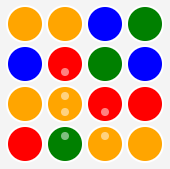
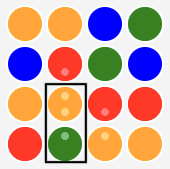
updates opdracht backtracking

diff --git a/content/opdrachten/_index.md b/content/opdrachten/_index.md
@@ -636,7 +636,7 @@ _Hints:_
 
 In de bijgeleverde tests worden de volgende drie spellen gebruikt:
 - Spel 1
-   <img src="/img/opdracht2/model1-1.png" width="100px"></img>
+   <img src="/img/opdracht2/model1.png" width="100px"></img>
    ```java
    CandyCrushGame model1 = Util.createBoardFromString("""
             @@o#
@@ -646,14 +646,15 @@ In de bijgeleverde tests worden de volgende drie spellen gebruikt:
    ```
    **Oplossing**: De maximumscore is **16** na **4 wissels**.
    {{% notice style=info title="Meer detail" expanded=false %}}
-   Er is slechts 1 sequentie van 4 wissels die tot een eindscore van 16 leidt.
-   1. (r2,c1) ⇄ (r3,c1)
-   2. (r2,c1) ⇄ (r3,c1)
-   3. (r2,c0) ⇄ (r2,c1)
-   4. (r2,c3) ⇄ (r3,c3)
+   Er zijn 3 sequenties van 4 wissels die tot een eindscore van 16 leiden, namelijk:
+
+   - (r2,c1) ⇄ (r3,c1), (r2,c1) ⇄ (r3,c1), (r2,c0) ⇄ (r2,c1), (r2,c3) ⇄ (r3,c3)
+   - (r2,c1) ⇄ (r3,c1), (r1,c0) ⇄ (r1,c1), (r2,c1) ⇄ (r3,c1), (r2,c3) ⇄ (r3,c3)
+   - (r2,c1) ⇄ (r3,c1), (r1,c0) ⇄ (r1,c1), (r1,c3) ⇄ (r2,c3), (r2,c1) ⇄ (r3,c1)
 
    _(rA,cB) ⇄ (rC,cD) betekent een wissel van het snoepje op rij A, kolom B met dat op rij C, kolom D._
 
+   De eerste sequentie ziet er als volgt uit:
    {{% multicolumn min=100px %}}
    <img src="/img/opdracht2/model1-1.png" width="100px"></img>
 
@@ -684,10 +685,10 @@ In de bijgeleverde tests worden de volgende drie spellen gebruikt:
    **Oplossing**: De maximumscore is **23** na **7 wissels**.
    {{% notice style=info title="Meer detail" expanded=false %}}
    Er zijn 4 verschillende sequenties van 7 wissels die tot een eindscore van 23 leiden:
-   - (r2,c0) ⇄ (r2,c1) ; (r3,c3) ⇄ (r3,c4) ; (r1,c2) ⇄ (r1,c3) ; (r2,c2) ⇄ (r3,c2) ; (r2,c1) ⇄ (r2,c2) ; (r4,c2) ⇄ (r4,c3) ; (r4,c3) ⇄ (r4,c4)
-   - (r3,c3) ⇄ (r3,c4) ; (r2,c0) ⇄ (r2,c1) ; (r1,c2) ⇄ (r1,c3) ; (r2,c2) ⇄ (r3,c2) ; (r2,c1) ⇄ (r2,c2) ; (r4,c2) ⇄ (r4,c3) ; (r4,c3) ⇄ (r4,c4)
-   - (r3,c3) ⇄ (r3,c4) ; (r1,c2) ⇄ (r1,c3) ; (r2,c2) ⇄ (r3,c2) ; (r2,c0) ⇄ (r2,c1) ; (r2,c1) ⇄ (r2,c2) ; (r4,c2) ⇄ (r4,c3) ; (r4,c3) ⇄ (r4,c4)
-   - (r3,c3) ⇄ (r3,c4) ; (r1,c2) ⇄ (r1,c3) ; (r2,c0) ⇄ (r2,c1) ; (r2,c2) ⇄ (r3,c2) ; (r2,c1) ⇄ (r2,c2) ; (r4,c2) ⇄ (r4,c3) ; (r4,c3) ⇄ (r4,c4)
+   - (r2,c0) ⇄ (r2,c1), (r3,c3) ⇄ (r3,c4), (r1,c2) ⇄ (r1,c3), (r2,c2) ⇄ (r3,c2), (r2,c1) ⇄ (r2,c2), (r4,c2) ⇄ (r4,c3), (r4,c3) ⇄ (r4,c4)
+   - (r3,c3) ⇄ (r3,c4), (r2,c0) ⇄ (r2,c1), (r1,c2) ⇄ (r1,c3), (r2,c2) ⇄ (r3,c2), (r2,c1) ⇄ (r2,c2), (r4,c2) ⇄ (r4,c3), (r4,c3) ⇄ (r4,c4)
+   - (r3,c3) ⇄ (r3,c4), (r1,c2) ⇄ (r1,c3), (r2,c2) ⇄ (r3,c2), (r2,c0) ⇄ (r2,c1), (r2,c1) ⇄ (r2,c2), (r4,c2) ⇄ (r4,c3), (r4,c3) ⇄ (r4,c4)
+   - (r3,c3) ⇄ (r3,c4), (r1,c2) ⇄ (r1,c3), (r2,c0) ⇄ (r2,c1), (r2,c2) ⇄ (r3,c2), (r2,c1) ⇄ (r2,c2), (r4,c2) ⇄ (r4,c3), (r4,c3) ⇄ (r4,c4)
   {{% /notice %}}
 - Spel 3
    <img src="/img/opdracht2/model3.png" width="160px"></img>
@@ -705,13 +706,13 @@ In de bijgeleverde tests worden de volgende drie spellen gebruikt:
    {{% notice style=info title="Meer detail" expanded=false %}}
    Voor model3 (score 33 na 9 wissels) zijn er volgende 7 sequenties:
 
-   - (r1,c0) ⇄ (r2,c0) ; (r2,c3) ⇄ (r2,c4) ; (r4,c5) ⇄ (r5,c5) ; (r2,c2) ⇄ (r2,c3) ; (r2,c5) ⇄ (r3,c5) ; (r5,c1) ⇄ (r5,c2) ; (r2,c2) ⇄ (r3,c2) ; (r5,c0) ⇄ (r5,c1) ; (r4,c4) ⇄ (r5,c4)
-   - (r2,c3) ⇄ (r2,c4) ; (r4,c5) ⇄ (r5,c5) ; (r2,c2) ⇄ (r2,c3) ; (r2,c5) ⇄ (r3,c5) ; (r5,c1) ⇄ (r5,c2) ; (r1,c0) ⇄ (r2,c0) ; (r2,c2) ⇄ (r3,c2) ; (r5,c0) ⇄ (r5,c1) ; (r4,c4) ⇄ (r5,c4)
-   - (r2,c3) ⇄ (r2,c4) ; (r4,c5) ⇄ (r5,c5) ; (r2,c2) ⇄ (r2,c3) ; (r2,c5) ⇄ (r3,c5) ; (r5,c1) ⇄ (r5,c2) ; (r5,c0) ⇄ (r5,c1) ; (r2,c2) ⇄ (r3,c2) ; (r4,c0) ⇄ (r5,c0) ; (r4,c4) ⇄ (r5,c4)
-   - (r2,c3) ⇄ (r2,c4) ; (r4,c5) ⇄ (r5,c5) ; (r2,c2) ⇄ (r2,c3) ; (r2,c5) ⇄ (r3,c5) ; (r1,c0) ⇄ (r2,c0) ; (r5,c1) ⇄ (r5,c2) ; (r2,c2) ⇄ (r3,c2) ; (r5,c0) ⇄ (r5,c1) ; (r4,c4) ⇄ (r5,c4)
-   - (r2,c3) ⇄ (r2,c4) ; (r4,c5) ⇄ (r5,c5) ; (r2,c2) ⇄ (r2,c3) ; (r1,c0) ⇄ (r2,c0) ; (r2,c5) ⇄ (r3,c5) ; (r5,c1) ⇄ (r5,c2) ; (r2,c2) ⇄ (r3,c2) ; (r5,c0) ⇄ (r5,c1) ; (r4,c4) ⇄ (r5,c4)
-   - (r2,c3) ⇄ (r2,c4) ; (r4,c5) ⇄ (r5,c5) ; (r1,c0) ⇄ (r2,c0) ; (r2,c2) ⇄ (r2,c3) ; (r2,c5) ⇄ (r3,c5) ; (r5,c1) ⇄ (r5,c2) ; (r2,c2) ⇄ (r3,c2) ; (r5,c0) ⇄ (r5,c1) ; (r4,c4) ⇄ (r5,c4)
-   - (r2,c3) ⇄ (r2,c4) ; (r1,c0) ⇄ (r2,c0) ; (r4,c5) ⇄ (r5,c5) ; (r2,c2) ⇄ (r2,c3) ; (r2,c5) ⇄ (r3,c5) ; (r5,c1) ⇄ (r5,c2) ; (r2,c2) ⇄ (r3,c2) ; (r5,c0) ⇄ (r5,c1) ; (r4,c4) ⇄ (r5,c4)
+   - (r1,c0) ⇄ (r2,c0), (r2,c3) ⇄ (r2,c4), (r4,c5) ⇄ (r5,c5), (r2,c2) ⇄ (r2,c3), (r2,c5) ⇄ (r3,c5), (r5,c1) ⇄ (r5,c2), (r2,c2) ⇄ (r3,c2), (r5,c0) ⇄ (r5,c1), (r4,c4) ⇄ (r5,c4)
+   - (r2,c3) ⇄ (r2,c4), (r1,c0) ⇄ (r2,c0), (r4,c5) ⇄ (r5,c5), (r2,c2) ⇄ (r2,c3), (r2,c5) ⇄ (r3,c5), (r5,c1) ⇄ (r5,c2), (r2,c2) ⇄ (r3,c2), (r5,c0) ⇄ (r5,c1), (r4,c4) ⇄ (r5,c4)
+   - (r2,c3) ⇄ (r2,c4), (r4,c5) ⇄ (r5,c5), (r1,c0) ⇄ (r2,c0), (r2,c2) ⇄ (r2,c3), (r2,c5) ⇄ (r3,c5), (r5,c1) ⇄ (r5,c2), (r2,c2) ⇄ (r3,c2), (r5,c0) ⇄ (r5,c1), (r4,c4) ⇄ (r5,c4)
+   - (r2,c3) ⇄ (r2,c4), (r4,c5) ⇄ (r5,c5), (r2,c2) ⇄ (r2,c3), (r2,c5) ⇄ (r3,c5), (r1,c0) ⇄ (r2,c0), (r5,c1) ⇄ (r5,c2), (r2,c2) ⇄ (r3,c2), (r5,c0) ⇄ (r5,c1), (r4,c4) ⇄ (r5,c4)
+   - (r2,c3) ⇄ (r2,c4), (r4,c5) ⇄ (r5,c5), (r2,c2) ⇄ (r2,c3), (r2,c5) ⇄ (r3,c5), (r5,c1) ⇄ (r5,c2), (r1,c0) ⇄ (r2,c0), (r2,c2) ⇄ (r3,c2), (r5,c0) ⇄ (r5,c1), (r4,c4) ⇄ (r5,c4)
+   - (r2,c3) ⇄ (r2,c4), (r4,c5) ⇄ (r5,c5), (r2,c2) ⇄ (r2,c3), (r2,c5) ⇄ (r3,c5), (r5,c1) ⇄ (r5,c2), (r5,c0) ⇄ (r5,c1), (r2,c2) ⇄ (r3,c2), (r4,c0) ⇄ (r5,c0), (r4,c4) ⇄ (r5,c4)
+   - (r2,c3) ⇄ (r2,c4), (r4,c5) ⇄ (r5,c5), (r2,c2) ⇄ (r2,c3), (r1,c0) ⇄ (r2,c0), (r2,c5) ⇄ (r3,c5), (r5,c1) ⇄ (r5,c2), (r2,c2) ⇄ (r3,c2), (r5,c0) ⇄ (r5,c1), (r4,c4) ⇄ (r5,c4)
    {{% /notice %}}
 
 
